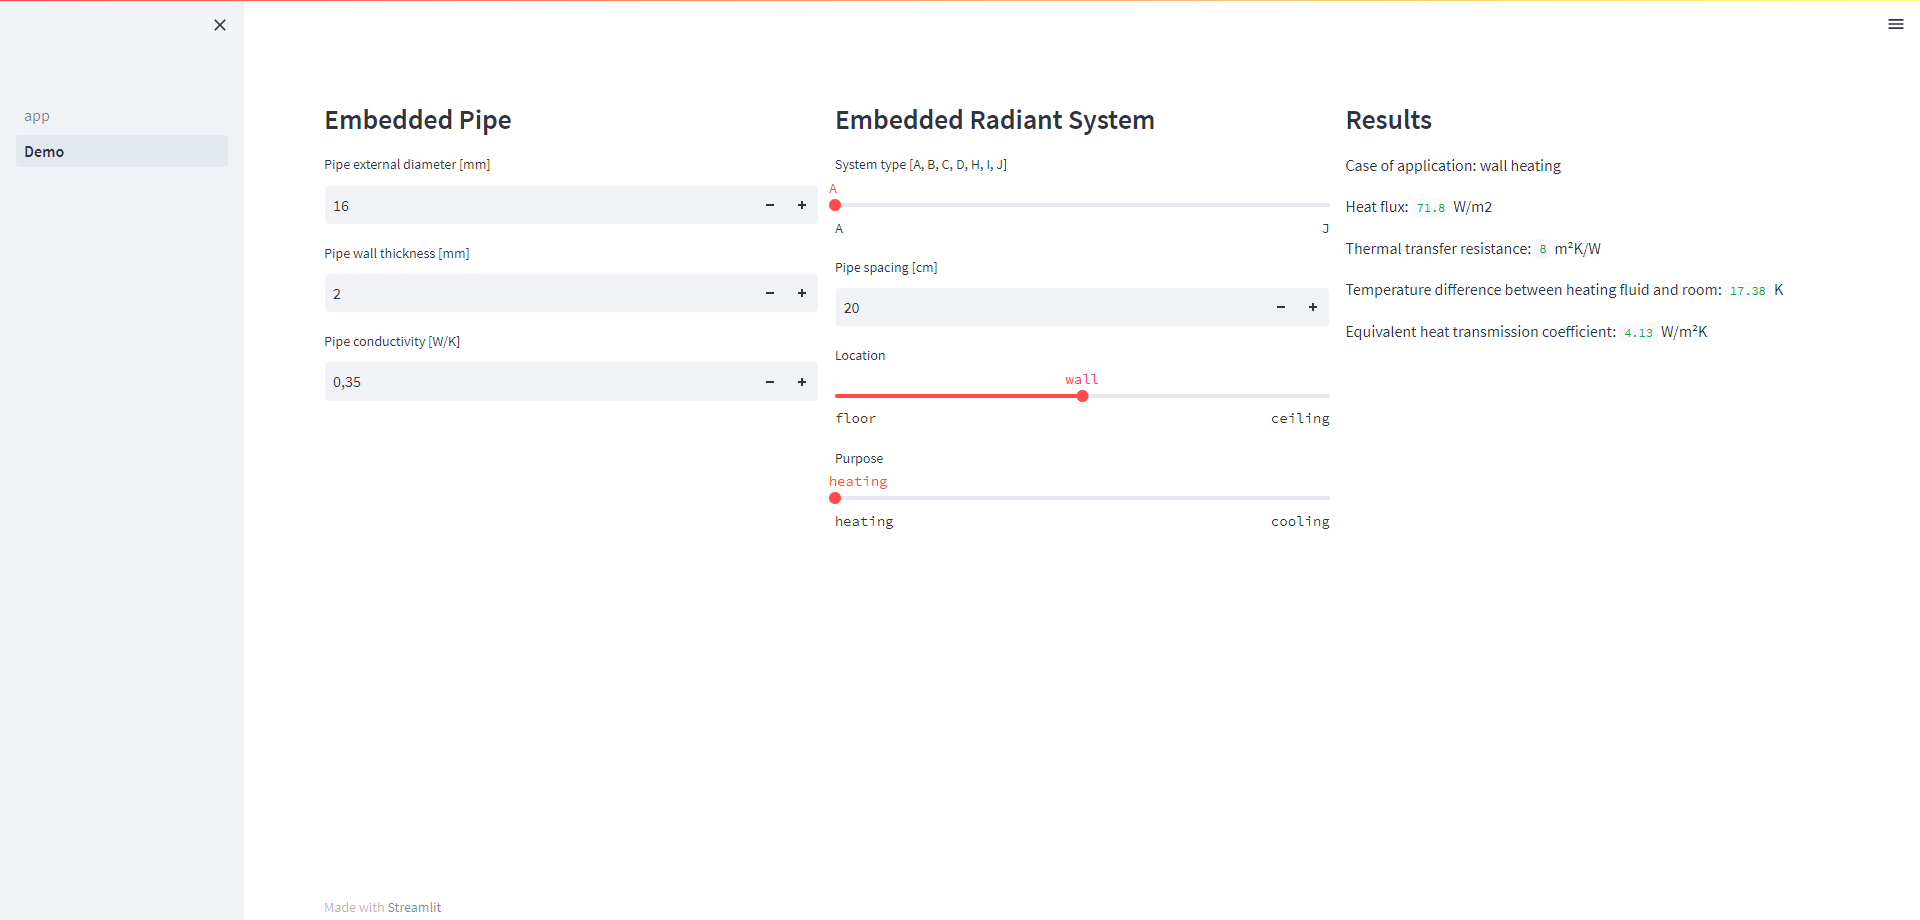
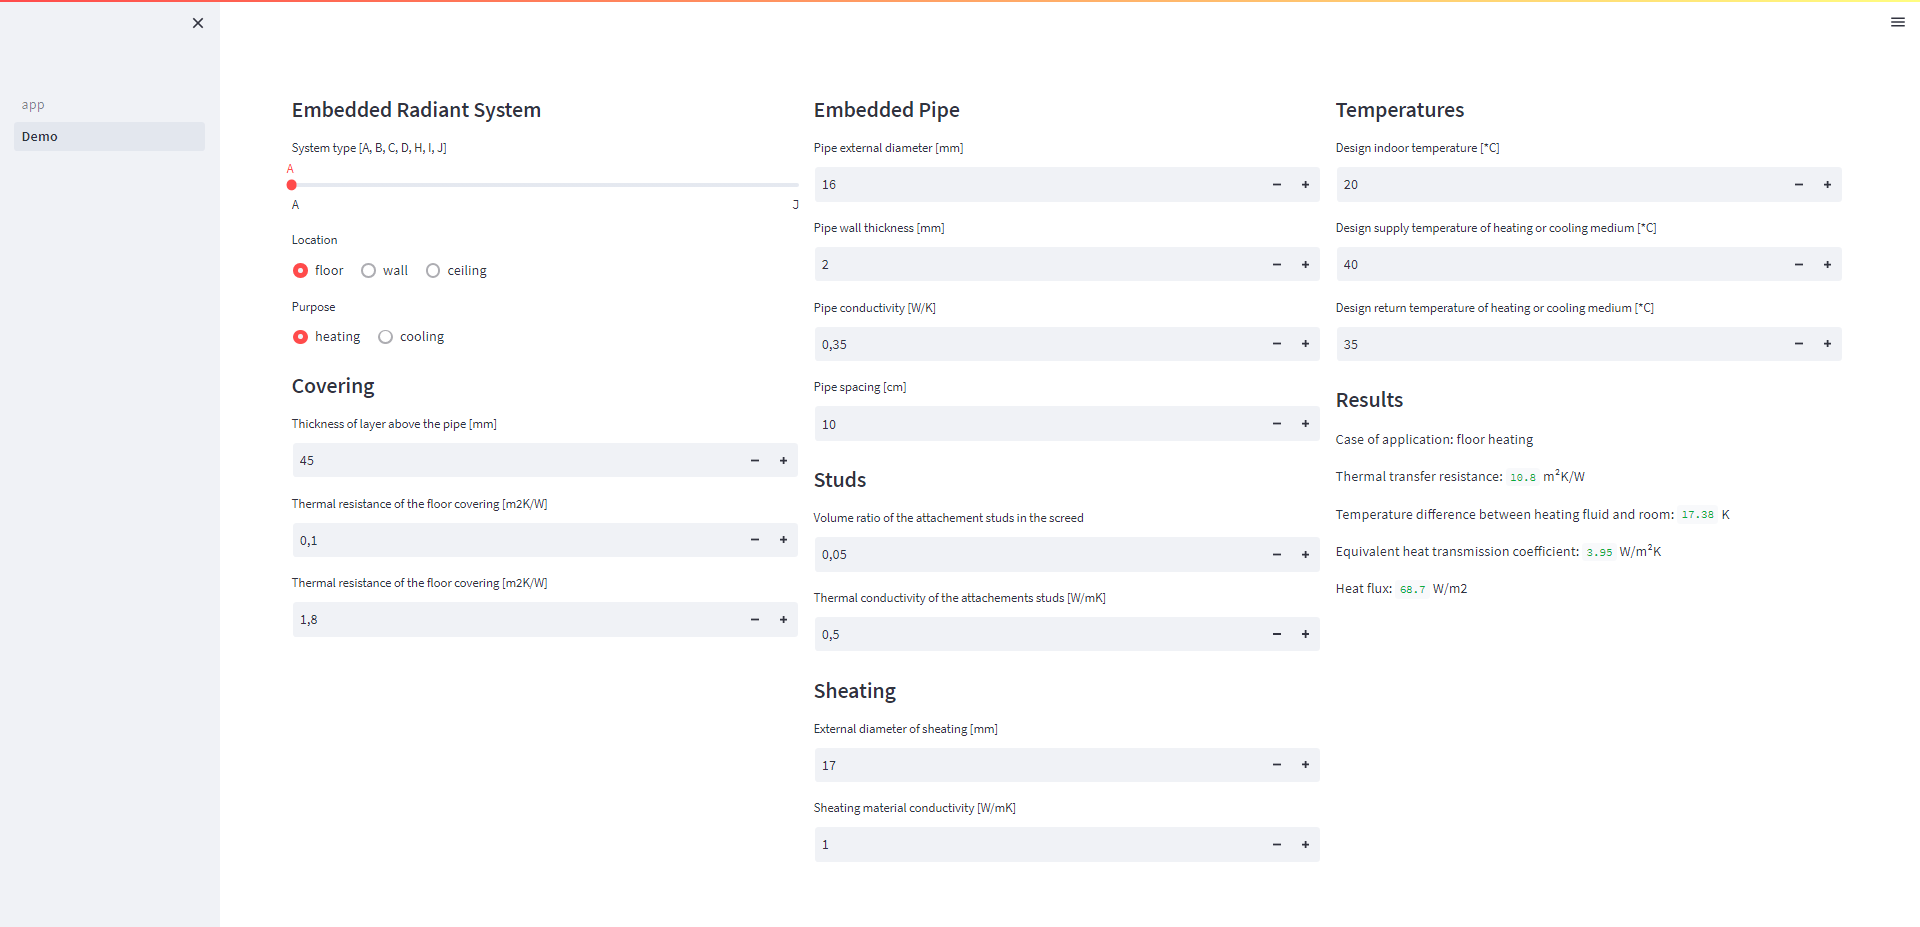
version 1.0
ready for public testing

diff --git a/iso-11855/pages/1_Demo.py b/iso-11855/pages/1_Demo.py
@@ -1,43 +1,87 @@
 import streamlit as st
 from iso_11855.methodology import *
 
-
 c1, c2, c3 = st.columns(3)
-with c1:
-    st.write("### Embedded Pipe")
-    external_diameter = (
-        st.number_input("Pipe external diameter [mm]", value=16, step=1, format="%i")
-        / 1000
-    )
-    wall_thickness = (
-        st.number_input("Pipe wall thickness [mm]", value=2, step=1, format="%i") / 1000
-    )
-    conductivity = st.number_input(
-        "Pipe conductivity [W/K]", value=0.35, step=0.01, format="%f"
-    )
-    embedded_pipe = EmbeddedPipe(
-        name="pipe",
-        external_diameter=external_diameter,
-        wall_thickness=wall_thickness,
-        conductivity=conductivity,
-    )
 
-with c2:
-    st.write("### Embedded Radiant System")
+with c1:
+    st.write("#### Embedded Radiant System")
     system_type = st.select_slider(
         label="System type [A, B, C, D, H, I, J]",
-        options=["A", "B", "C", "D", "H", "I", "J"],
-    )
-    if system_type != "D":
-        W = st.number_input("Pipe spacing [cm]", value=20, step=5, format="%i") / 100
-    else:
-        W = 0
-    placement = st.select_slider("Location", options=["floor", "wall", "ceiling"])
-    purpose = st.select_slider("Purpose", options=["heating", "cooling"])
+        options=["A", "B", "C", "D", "H", "I", "J"],)
+    placement = st.radio("Location", options=["floor", "wall", "ceiling"], horizontal=True)
+    purpose = st.radio("Purpose", options=["heating", "cooling"], horizontal=True)
     case_of_application = placement + " " + purpose
 
+    st.write("#### Covering")
+    s_u = st.number_input("Thickness of layer above the pipe [mm]", 
+                        value=45, step=1, format="%i") / 1000
+    R_k_B = st.number_input("Thermal resistance of the floor covering [m2K/W]", 
+                        value=0.10, step=0.05, format="%f")
+    k_E = st.number_input("Thermal resistance of the floor covering [m2K/W]", 
+                        value=1.8, step=0.1, format="%f")
+
+
+with c2:
+    if system_type != "D":
+        st.write("#### Embedded Pipe")
+
+        external_diameter = st.number_input("Pipe external diameter [mm]", 
+                                    value=16, step=1, format="%i") / 1000
+        wall_thickness = st.number_input("Pipe wall thickness [mm]", 
+                                    value=2.0, step=0.1, format="%f") / 1000
+        conductivity = st.number_input("Pipe conductivity [W/K]", 
+                                    value=0.35, step=0.01, format="%f")
+        embedded_pipe = EmbeddedPipe(name="pipe",external_diameter=external_diameter,
+                                    wall_thickness=wall_thickness, conductivity=conductivity)
+        W = st.number_input("Pipe spacing [cm]", value=10, step=5, format="%i") / 100
+    else:
+        st.write("#### System D is pretty simple, isn't it?")
+        W = 0
+        embedded_pipe = EmbeddedPipe(name="small_pipes", 
+                                    external_diameter=4, wall_thickness=0.5, conductivity=1)
+
+    if system_type in "ACHIJ":
+        # studs
+        st.write("#### Studs")
+        psi = st.number_input("Volume ratio of the attachement studs in the screed", 
+        value=0.05, step=0.01, format="%f")
+        k_W = st.number_input("Thermal conductivity of the attachements studs [W/mK]", 
+        value=0.50, step=0.05, format="%f")
+    else:
+        psi = 0
+        k_W = 0
+
+    if system_type != "D":
+        st.write("#### Sheating")
+        d_M = st.number_input("External diameter of sheating [mm]", 
+                                value=17.0, step=0.1, format="%f") /1000
+        k_M = st.number_input("Sheating material conductivity [W/mK]", 
+                                value = 1.0, step=0.5, format="%f")
+    else:
+        d_M = 0
+        k_M = 0
+
+    if system_type != "B":
+        s_WL = 0
+        k_WL = 0 
+        L_WL = 0
+    else:
+        st.write("#### Heat diffusion device")
+        s_WL = st.number_input("Thickness of the heat conducting material [mm]", 
+        value=2.0, step=0.1, format="%f") / 1000
+        k_WL = st.number_input("Thermal conductivity of the heat conducting material [W/mK]",
+        value=50.0, step=5.0, format="%f")
+        L_WL = st.number_input("Width of heat conducting device [cm]", 
+        value=10.0, step=5.0, format="%f") / 100
+
+
 with c3:
-    st.write("### Results")
+    st.write("#### Temperatures")
+    t_i = st.number_input("Design indoor temperature [*C]", value=20, step=1, format="%i")
+    t_V = st.number_input("Design supply temperature of heating or cooling medium [*C]",
+        value=40, step=1, format="%i")
+    t_R = st.number_input("Design return temperature of heating or cooling medium [*C]",
+        value=35, step=1, format="%i")
 
     UFH = EmbeddedRadiantSystem(
         name="Generic",
@@ -45,14 +89,25 @@ with c3:
         embedded_pipe=embedded_pipe,
         case_of_application=case_of_application,
         W=W,
+        d_M=d_M,
+        k_M=k_M,
+        s_WL=s_WL,
+        k_WL=k_WL,
+        L_WL=L_WL,
+        s_u=s_u,
+        R_k_B=R_k_B,
+        k_E=k_E,
+        psi=psi,
+        k_W=k_W,
+        t_i=t_i,
+        t_V=t_V,
+        t_R=t_R,
     )
 
-    st.write("Case of application: ", UFH.case_of_application)
-    st.write("Thermal transfer resistance: ", round(UFH.alfa, 2), "m²K/W")
-    st.write(
-        "Temperature difference between heating fluid and room: ",
-        round(UFH.deltat_H, 2),
-        "K",
-    )
-    st.write("Heat flux: ", round(UFH.q, 1), "W/m2")
-    st.write("Equivalent heat transmission coefficient: ", round(UFH.K_H, 2), "W/m²K")
+    st.write("#### Results")
+    st.write("Case of application:", UFH.case_of_application)
+    st.write("Thermal transfer resistance:", round(UFH.alfa, 2), "m²K/W")
+    st.write("Temperature difference between heating fluid and room:",
+        round(UFH.deltat_H, 2),"K",)
+    st.write("Equivalent heat transmission coefficient:", round(UFH.K_H, 2), "W/m²K")
+    st.write("Heat flux:", round(UFH.q, 1), "W/m2")

diff --git a/iso-11855/iso_11855/methodology.py b/iso-11855/iso_11855/methodology.py
@@ -1,5 +1,4 @@
-#from . import functions as f
-import functions as f
+from . import functions as f
 from dataclasses import dataclass, field
 
 
